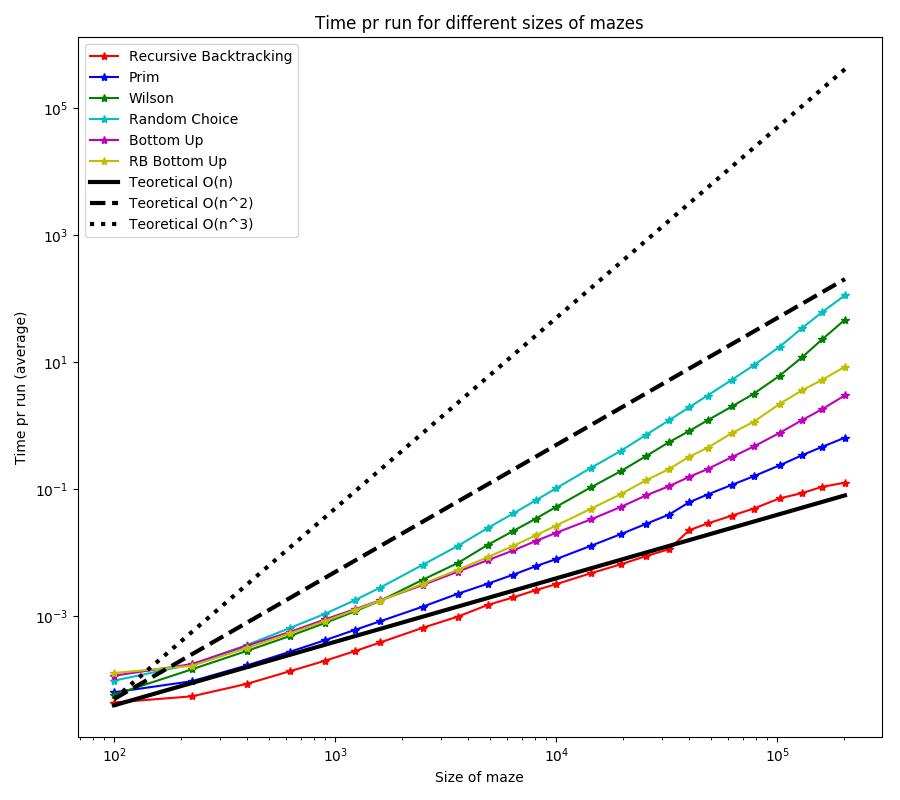
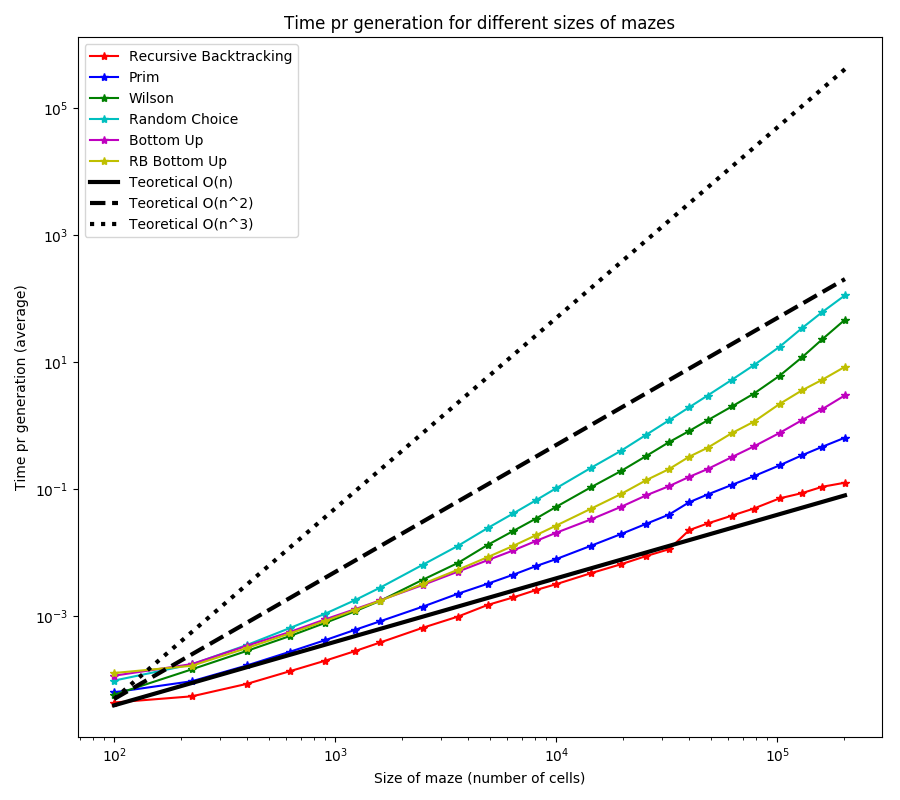
Last finishing touches

Changed region(s): [[0.3111, 0.0, 0.7467, 0.0625], [0.4044, 0.9688, 0.6533, 1.0], [0.0, 0.3438, 0.0311, 0.5938]]

diff --git a/experiments/timeAnalysis.py b/experiments/timeAnalysis.py
@@ -37,9 +37,9 @@ teoreticaln = plt.loglog(space, 10**(-6.4)*space, 'k-', label='Teoretical O(n)',
 teoreticaln2 = plt.loglog(space, 10**(-8.3)*(space**2), 'k--', label='Teoretical O(n^2)', linewidth=3.0)
 teoreticaln3 = plt.loglog(space, 10**(-10.3)*(space**3), 'k:', label='Teoretical O(n^3)', linewidth=3.0)
 
-plt.ylabel('Time pr run (average)')
-plt.xlabel('Size of maze')
-plt.title('Time pr run for different sizes of mazes')
+plt.ylabel('Time pr generation (average)')
+plt.xlabel('Size of maze (number of cells)')
+plt.title('Time pr generation for different sizes of mazes')
 plt.legend(loc='upper left')
 plt.show()
 fig.savefig('images/runTimeOverSpace.png')

diff --git a/experiments/thirdExperiment.py b/experiments/thirdExperiment.py
@@ -61,7 +61,7 @@ plt.subplot(224)
 plot4 = plt.bar(index, means_turns, bar_width, alpha=opacity,color=['magenta', 'purple', 'blue', 'cyan', 'lime', 'red'],edgecolor='black',label='Turns on the Solution')
 plt.xlabel('Algorithm')
 plt.ylabel('Cell')
-plt.title('Turns on the Solution')
+plt.title('Turns in the Solution')
 plt.xticks(index, ('RB', 'P', 'W', 'RC', 'BU', 'RBBU'))
 
 plt.show()

diff --git a/experiments/secondExperiment.py b/experiments/secondExperiment.py
@@ -59,7 +59,7 @@ plt.subplot(224)
 plot4 = plt.bar(index, means_turns, bar_width, alpha=opacity,color=['magenta', 'purple', 'blue', 'cyan', 'lime'],edgecolor='black',label='Turns on the Solution')
 plt.xlabel('Algorithm')
 plt.ylabel('Cell')
-plt.title('Turns on the Solution')
+plt.title('Turns in the Solution')
 plt.xticks(index, ('RB', 'P', 'W', 'RC', 'BU'))
 
 plt.show()

diff --git a/experiments/firstExperiment.py b/experiments/firstExperiment.py
@@ -60,7 +60,7 @@ plt.subplot(224)
 plot4 = plt.bar(index, means_turns, bar_width, alpha=opacity,color=['magenta', 'purple', 'blue'],edgecolor='black',label='Turns on the Solution')
 plt.xlabel('Algorithm')
 plt.ylabel('Cell')
-plt.title('Turns on the Solution')
+plt.title('Turns in the Solution')
 plt.xticks(index, ('RB', 'P', 'W'))
 
 plt.show()

diff --git a/experiments/statistics.py b/experiments/statistics.py
@@ -138,7 +138,7 @@ plt.subplot(224)
 plot4 = plt.boxplot(turns, vert=0)
 plt.xlabel('Algorithm')
 plt.ylabel('Cell')
-plt.title('Turns on the Solution')
+plt.title('Turns in the Solution')
 plt.yticks(index+1, ('RB', 'P', 'W', 'RC', 'BU', 'RBBU'))
 
 plt.show()
